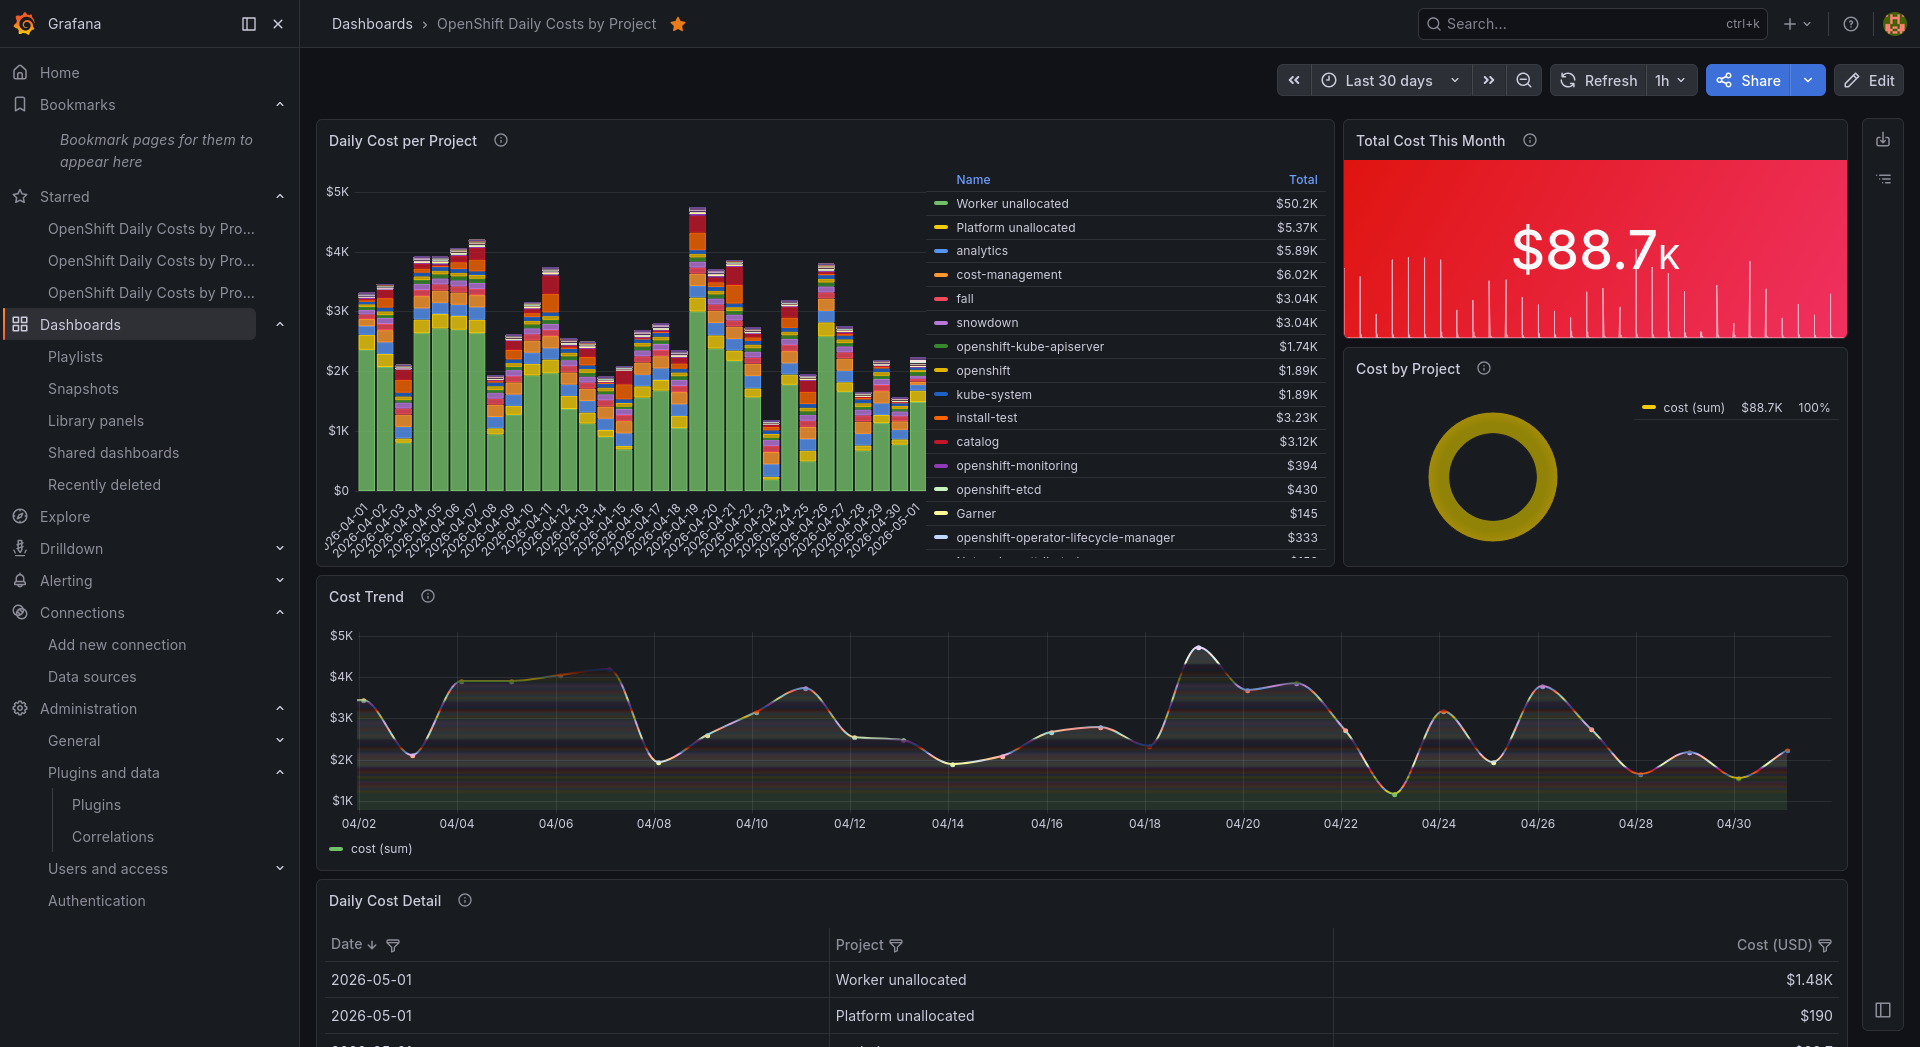
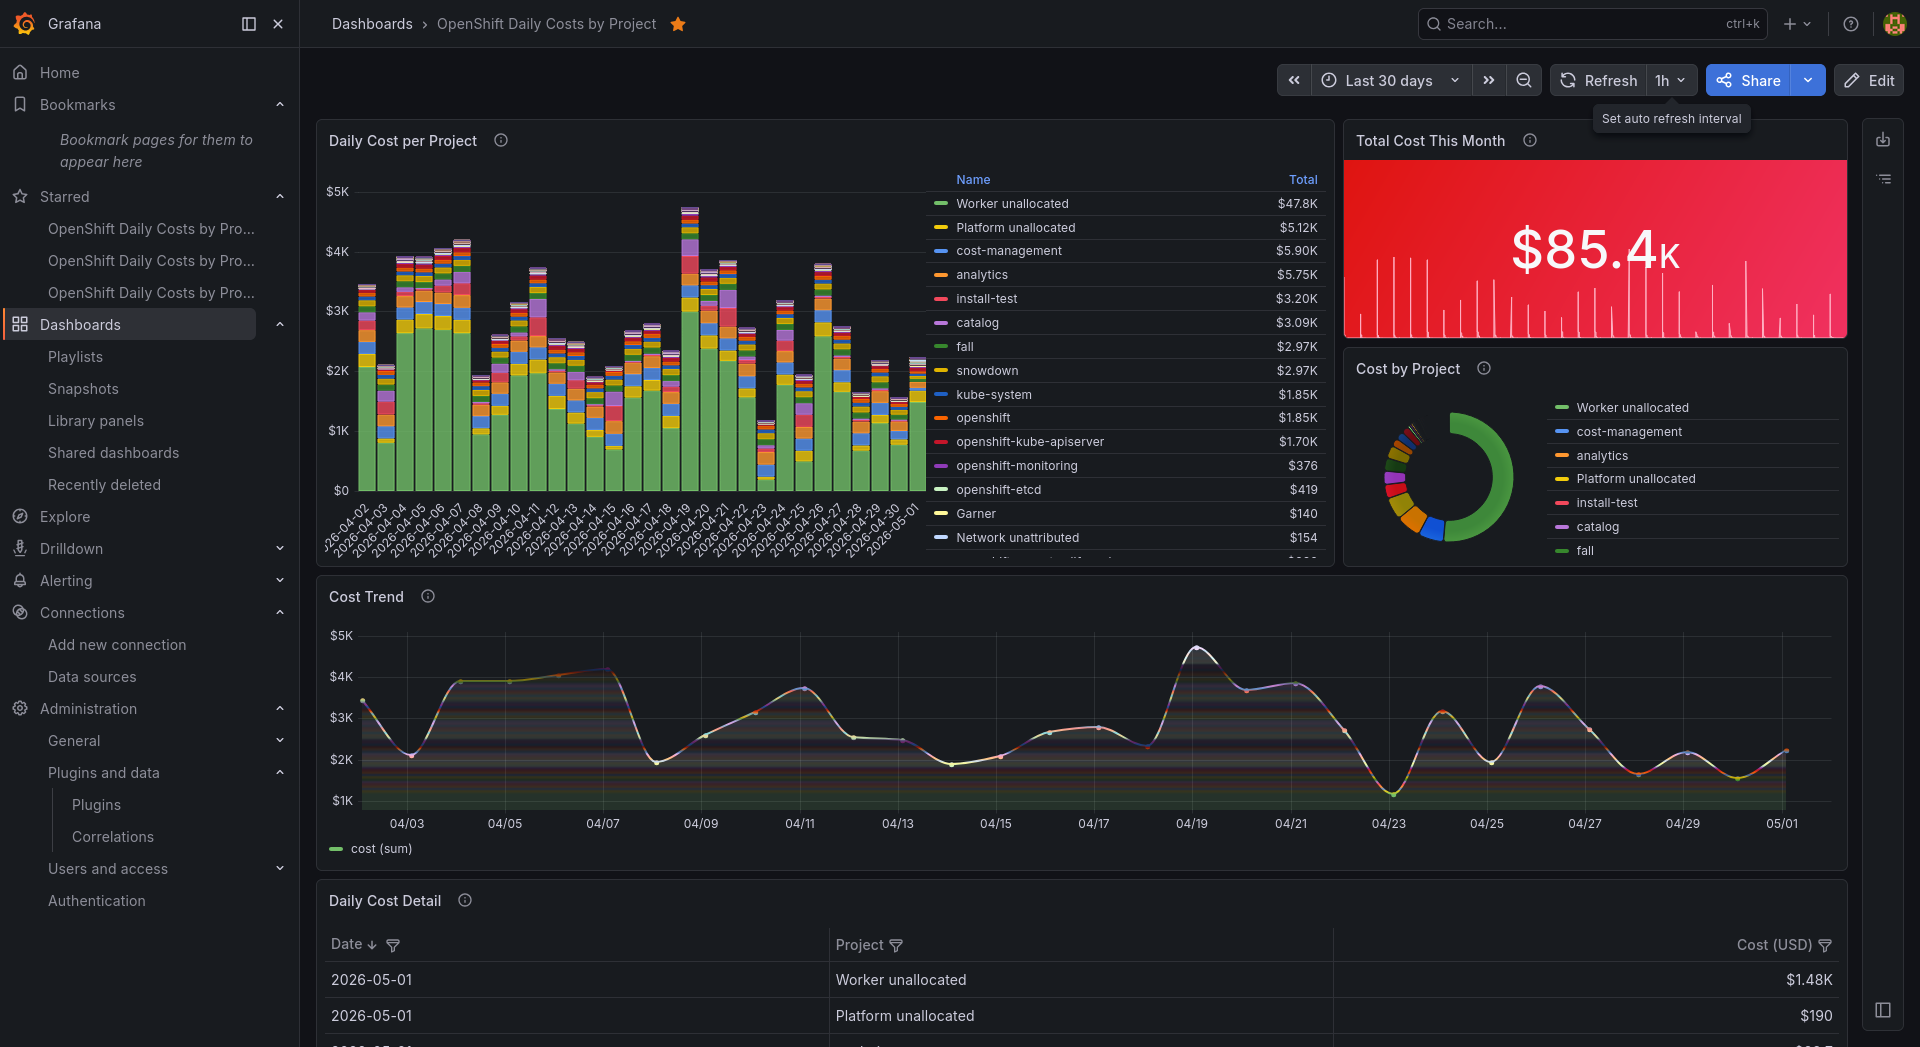
Fix pie chart breakdown, clarify Cost Trend panel, fix import scripts
- Add rowsToFields transformation to native/proxy pie charts so they
  show per-project slices instead of a single "cost (sum)" slice
- Rename json_exporter Cost Trend panel to clarify it accumulates
  over scrape history and starts empty on day one
- Document the scrape-history behavior in json_exporter README and
  main README with prominent callouts
- Fix import scripts: replace fragile heredoc JSON embedding with
  direct file reads to avoid bash mangling Grafana template variables
- Update dashboard screenshot

diff --git a/dashboard_with_json_exporter/README.md b/dashboard_with_json_exporter/README.md
@@ -141,7 +141,9 @@ Open the URL printed at the end.
 
 ## How the data model works
 
-Understanding this is key to interpreting the dashboard correctly.
+> **Important:** Understanding this section is key to interpreting the
+> dashboard correctly. The json\_exporter variant behaves differently from the
+> native and proxy variants.
 
 The Cost Management API returns daily costs with a `date` field
 (e.g., `2026-04-01`, `2026-04-02`, ...). json\_exporter converts these into
@@ -159,9 +161,25 @@ This means:
 - The **stat**, **pie**, and **table** panels use **instant queries**
   (evaluated at `time=now`), so they always return the latest scraped values
   and are **unaffected by the Grafana time picker**.
-- A separate **"Cost Trend"** time series panel tracks the total cost value
-  over scrape time — useful for monitoring when cost data changes, but not
-  for viewing daily breakdowns.
+
+### The "Cost Trend" panel starts empty — this is normal
+
+The **"Cost Trend (accumulates over scrape history)"** panel is a time series
+that plots the `ocp_cost_total_usd` metric over **Prometheus scrape timestamps**
+(wall-clock time), NOT over the API's daily `date` values.
+
+- **On day one**, this panel will show only a single data point (or a short
+  flat line) at today's timestamp. **This is expected.**
+- Over the following days, as Prometheus scrapes every 15 minutes, new data
+  points accumulate and the panel gradually builds a trend line.
+- After a week or more, you'll see a meaningful visualization of how total
+  cost evolves over real time.
+
+This is fundamentally different from the native/proxy variants, where the
+"Cost Trend" panel shows daily total cost from the API (one point per day,
+driven by the Grafana time picker). The json\_exporter variant tracks
+*scrape history* — useful for monitoring when cost data changes, but not
+for viewing daily breakdowns (use the bar chart for that).
 
 ### API time range
 
@@ -189,7 +207,7 @@ ensures the bar chart always shows ~30 bars. To change the window, edit the
 | Daily Cost per Project | Bar chart | `ocp_project_cost_total_usd` | Stacked bars (one per day, segments per project) using the `date` label as X-axis |
 | Total Cost This Month | Stat | `ocp_cost_total_usd` | Single number, color-coded by threshold |
 | Cost by Project | Pie chart | `sum by (project) (ocp_project_cost_total_usd)` | Proportional breakdown |
-| Cost Trend (Scrape History) | Time series | `ocp_cost_total_usd` | Total cost over scrape time (Prometheus timestamps) |
+| Cost Trend (accumulates over scrape history) | Time series | `ocp_cost_total_usd` | **Starts empty** — accumulates data points over days as Prometheus scrapes (see [note above](#the-cost-trend-panel-starts-empty--this-is-normal)) |
 | Daily Cost Detail | Table | `ocp_project_cost_total_usd` | Sortable/filterable table with date, project, cost |
 
 ---

diff --git a/README.md b/README.md
@@ -141,6 +141,13 @@ bash import_dashboard.sh
 
 **Requires:** json\_exporter v0.7+, Prometheus, Grafana. No Infinity plugin needed.
 
+> **Note:** The json\_exporter variant's "Cost Trend" panel behaves differently
+> from the native/proxy variants. Because Prometheus stores API data at scrape
+> time (not at the API's daily date), the Cost Trend panel **starts empty and
+> accumulates data points gradually** as Prometheus scrapes every 15 minutes.
+> Give it a few days to build a meaningful trend line. The other panels (bar
+> chart, stat, pie, table) display the full date range immediately.
+
 See [`dashboard_with_json_exporter/README.md`](dashboard_with_json_exporter/README.md)
 for details.
 
